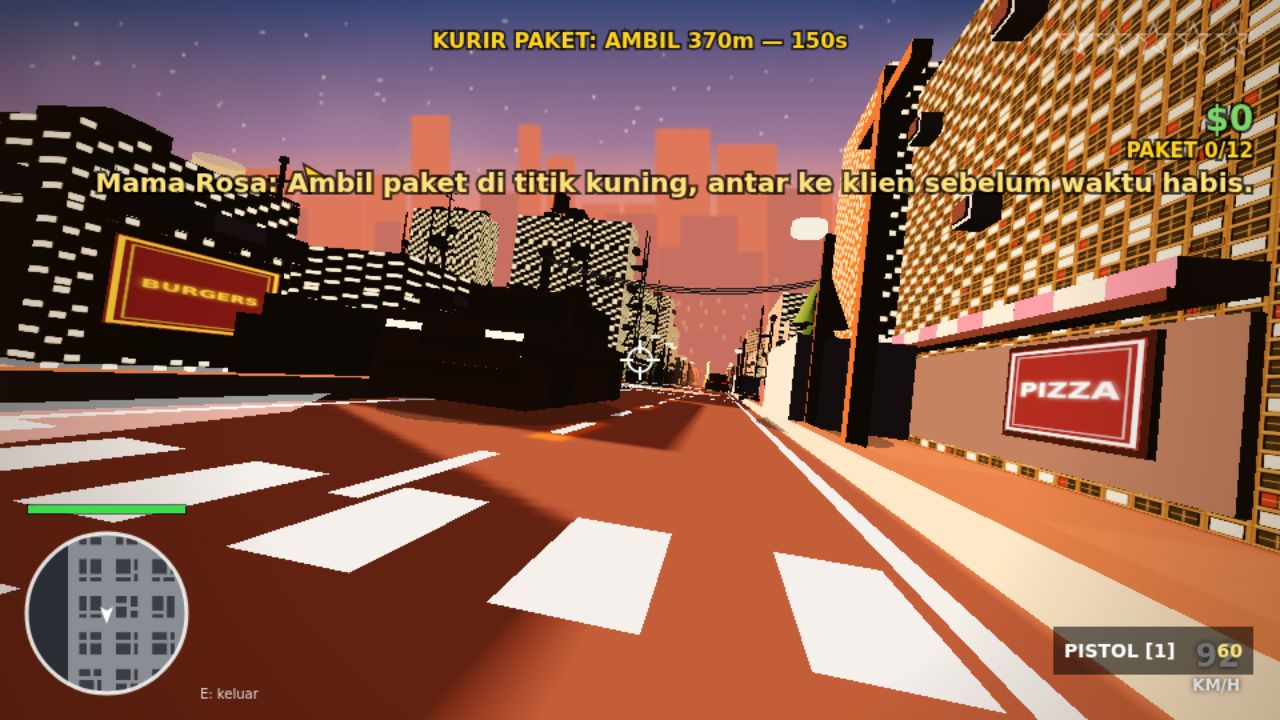
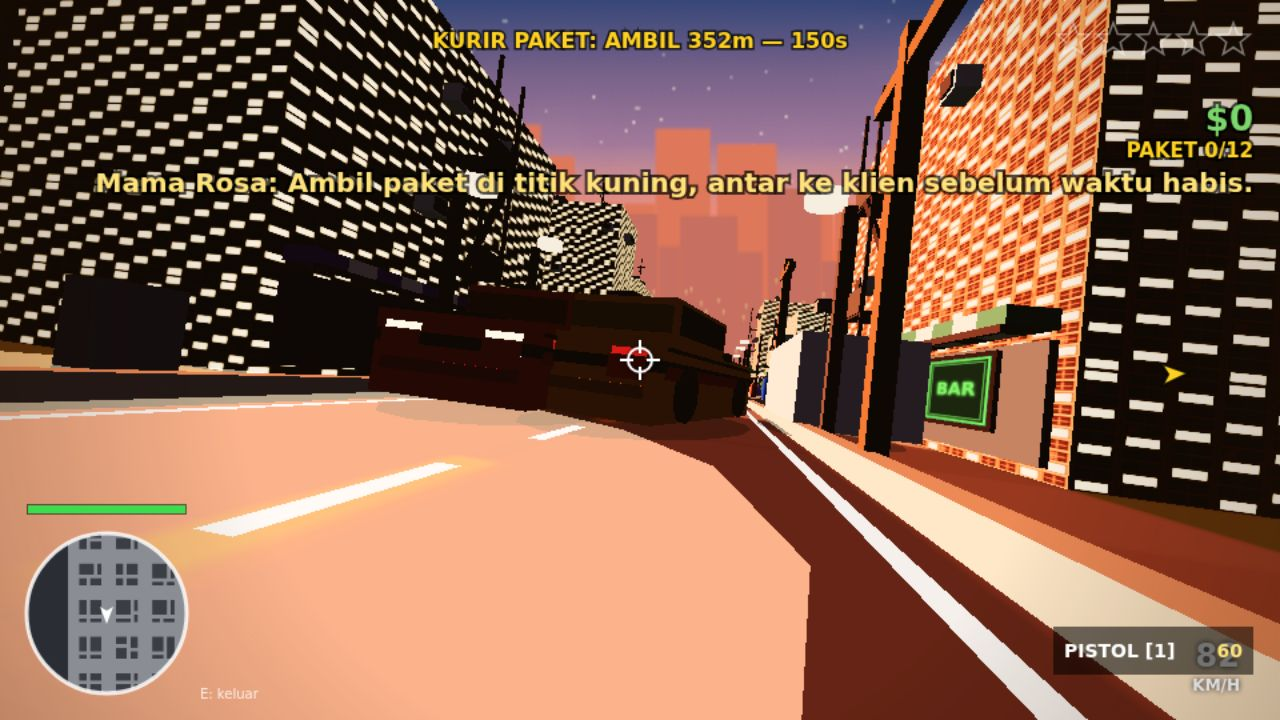
feat(v4): deterministic auto-start shot mode, stable framing, brighter sheet (checkpoint)

diff --git a/game/src/shots.js b/game/src/shots.js
@@ -101,22 +101,21 @@ const SHOTS = {
   },
 
   chase: {
-    light: { hemi: 1.0, ambient: 0.45, sun: 1.2, exposure: 1.15 },
+    light: { hemi: 0.15, ambient: 0.03, sun: 14, exposure: 2.8, sunColor: '#b8ccff', sunDir: [-500, 260, -200], hemiSky: '#6a7fb8', hemiGnd: '#1a1a24' },
     hour: 21,
     setup(c) {
       const car = freeCars(c)[0];
       enterCar(c, car, 780, 1328, 0, 230);
       c.world.time = 0;
       wanted3(c);
-      addCop(c, 690, 1328, 0, 240);
-      addCop(c, 640, 1296, 0, 240);
+      c.cops = [addCop(c, 690, 1328, 0, 240), addCop(c, 640, 1296, 0, 240)];
     },
     tick(c) {
       const car = c.player.car;
       c.keys.add('w');
-      car.y = 1328; car.angle = 0;
+      car.x = 780; car.y = 1328; car.angle = 0;
       c.player.x = car.x; c.player.y = car.y;
-      if (car.x > 2100) car.x -= 1400;
+      put(c.cops[0], 690, 1328, 0, 240); put(c.cops[1], 640, 1296, 0, 240);
     },
     camera(c, cam) {
       const car = c.player.car;
@@ -126,7 +125,7 @@ const SHOTS = {
   },
 
   firefight: {
-    light: { hemi: 0.38, ambient: 0.16, sun: 9.5, exposure: 2.45, sunColor: '#ff9a5a', sunDir: [-650, 120, 250], hemiSky: '#8a72b0', hemiGnd: '#241418' },
+    light: { hemi: 0.05, ambient: 0.0, sun: 40, exposure: 2.0, sunColor: '#ff9a5a', sunDir: [-650, 120, 250], hemiSky: '#8a72b0', hemiGnd: '#241418' },
     hour: 18.9,
     setup(c) {
       const { player, combat, world } = c;
@@ -166,19 +165,18 @@ const SHOTS = {
   },
 
   driving: {
-    light: { hemi: 0.05, ambient: 0.01, sun: 14, exposure: 2.6, sunColor: '#ff7a4a', sunDir: [-700, 90, -300], hemiSky: '#8a6ab0', hemiGnd: '#1a1018' },
+    light: { hemi: 0.1, ambient: 0.03, sun: 14, exposure: 2.6, sunColor: '#ff7a4a', sunDir: [-700, 90, -300], hemiSky: '#8a6ab0', hemiGnd: '#1a1018' },
     hour: 18.3,
     setup(c) {
       const car = freeCars(c)[0];
-      enterCar(c, car, 336, 1650, HALF_PI, 230);
+      enterCar(c, car, 336, 1480, HALF_PI, 230);
       c.world.time = 0;
     },
     tick(c) {
       const car = c.player.car;
       c.keys.add('w');
-      car.x = 336; car.angle = HALF_PI;
+      car.x = 336; car.y = 1480; car.angle = HALF_PI;
       c.player.x = car.x; c.player.y = car.y;
-      if (car.y > 2100) car.y -= 700;
     },
     camera(c, cam) {
       const car = c.player.car;
@@ -191,24 +189,35 @@ export function createShot({ world, player, police, peds, gfx, combat, keys, ui 
   const def = SHOTS[NAME];
   if (!def) return null;
   const c = { world, player, police, peds, gfx, combat, keys, ui, pinWanted: false };
-  let ready = false, lit = false;
+  let ready = false, hooked = false;
+  setHour(gfx, def.hour);
+  const applyLight = () => {
+    const L = def.light;
+    if (!L) return;
+    gfx.hemi.intensity = L.hemi; gfx.ambient.intensity = L.ambient;
+    gfx.sun.intensity = L.sun; gfx.renderer.toneMappingExposure = L.exposure;
+    if (L.sunColor) gfx.sun.color.set(L.sunColor);
+    if (L.hemiSky) gfx.hemi.color.set(L.hemiSky);
+    if (L.hemiGnd) gfx.hemi.groundColor.set(L.hemiGnd);
+  };
+  if (def.light && def.light.sunDir) gfx.sunDirOverride = new THREE.Vector3(...def.light.sunDir);
   return {
     name: NAME,
     tick(dt) {
       if (ui.state !== 'PLAYING') return;
+      if (!hooked) {
+        hooked = true;
+        const prev = gfx.beforeDraw;
+        gfx.beforeDraw = () => {
+          applyLight();
+          if (gfx.base && def.light) { gfx.base.exp = def.light.exposure; gfx.base.sun = def.light.sun; gfx.base.hemi = def.light.hemi; }
+          if (prev) prev();
+        };
+      }
       if (!ready) { ready = true; setHour(gfx, def.hour); def.setup(c); }
+      if (gfx.hour !== def.hour) gfx.hour = def.hour;
       if (player.health < 100) player.health = 100;
       if (c.pinWanted) { police.heat = 250; police.stars = 3; }
-      if (def.light && gfx.dayKey === gfx.hour && !lit) {
-        lit = true;
-        const L = def.light;
-        gfx.hemi.intensity = L.hemi; gfx.ambient.intensity = L.ambient;
-        gfx.sun.intensity = L.sun; gfx.renderer.toneMappingExposure = L.exposure;
-        if (L.sunColor) gfx.sun.color.set(L.sunColor);
-        if (L.sunDir) gfx.sunDirOverride = new THREE.Vector3(...L.sunDir);
-        if (L.hemiSky) gfx.hemi.color.set(L.hemiSky);
-        if (L.hemiGnd) gfx.hemi.groundColor.set(L.hemiGnd);
-      }
       if (def.tick) def.tick(c, dt);
     },
     camera(cam) {

diff --git a/game/src/main.js b/game/src/main.js
@@ -163,5 +163,9 @@ function frame(now) {
   ui.update(0);
   requestAnimationFrame(frame);
 }
+if (new URLSearchParams(location.search).has('shot')) {
+  ui.state = 'PLAYING';
+  try { startGame(); } catch (err) { console.warn('shot autostart audio:', err); if (!missions.active) missions.next(); }
+}
 requestAnimationFrame(frame);
 window.__game = { interiors, combat, ui, audio, world, player, police, peds, missions, keys, gfx, cars: world.cars };
